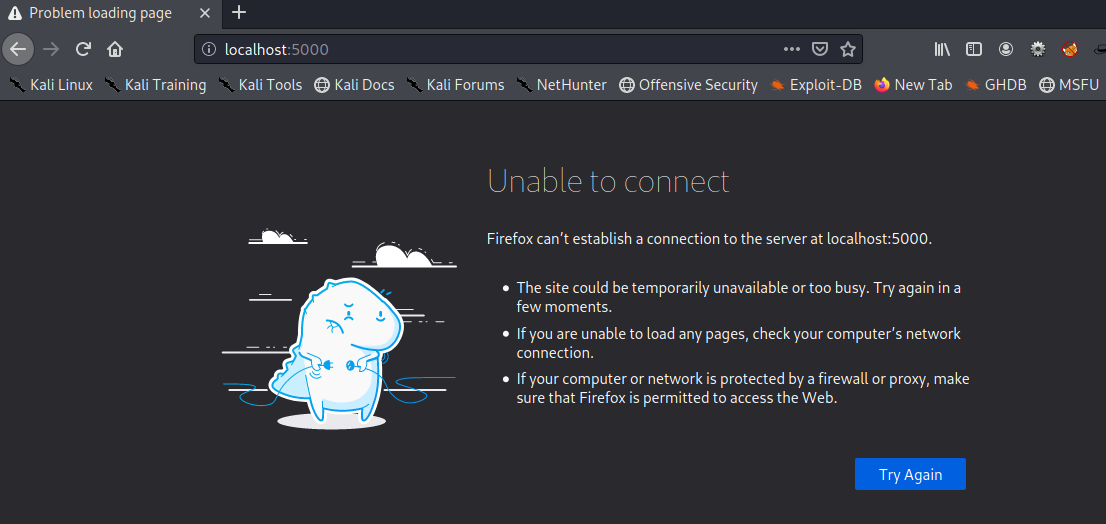
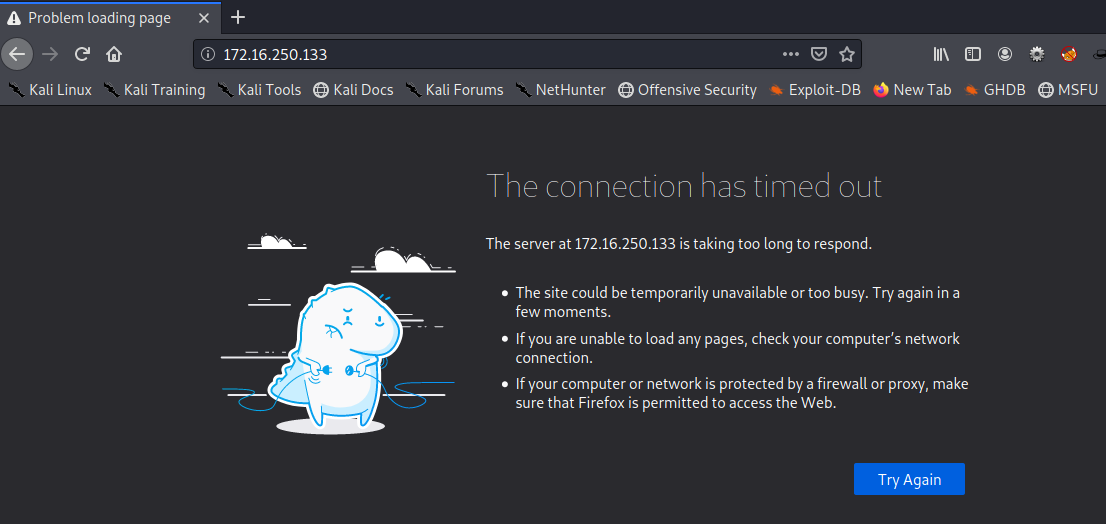
GitBook: [master] one page and 4 assets modified

diff --git a/README.md b/README.md
@@ -94,7 +94,7 @@ Pues.. para esto corremos el siguiente comando
 getuid
 ```
 
-![](.gitbook/assets/image%20%2840%29.png)
+![](.gitbook/assets/image%20%2841%29.png)
 
 Este comando permite consultar la cuenta que se esta ejecutando para el proceso del meterpreter.
 
@@ -119,7 +119,7 @@ Una vez ya ejecutado nuestro **netstat** podemos visualizar que para la linea 4 
 
 Aun asi estando ya dentro de nuestra maquina Ubuntu desde nuestro meterpreter validamos si el podemos ver la conexion en nuestro localhost sin haber realizado nuestro **Port Forwarding**
 
-![](.gitbook/assets/image%20%2841%29.png)
+![](.gitbook/assets/image%20%2842%29.png)
 
 Y en efecto... no podemos todavia desplegar la informaciòn desde nuestro localhost
 
@@ -266,7 +266,7 @@ El cual nos genera la sigueinte salida
 
 Una vez ya ejecutado nuestro binario de chisel asignando el trafico al puerto 8000 , podemos corroborar si mantenemos acceso a la metasploitable2
 
-![](.gitbook/assets/image%20%2839%29.png)
+![](.gitbook/assets/image%20%2840%29.png)
 
 Pues no... no tenemos acceso. En este punto, imaginamos que te preguntas... pero porque localhost? y ese puerto? por que no es el que señalo arriba el 8000? y si todas esas dudas la respondemos siguiendo este pequeño lab.
 
@@ -387,7 +387,13 @@ El cual detallamos a continuaciòn:
 
 ![](.gitbook/assets/image%20%2831%29.png)
 
-Seguido realizamos la configuracion en nuestro explorador
+Teniendo la conexiòn remota activa sobre nuestra maquina Ubuntu, decidimos realizar la prueba sobre nuestro explorador para saber si tenemos visibilidad sobre la Metasploitable2
+
+![](.gitbook/assets/image%20%2839%29.png)
+
+Y en efecto, no mantenemos visibilidad.
+
+Seguido a la prueba, realizamos la configuracionde conexiones en nuestro explorador
 
 * Seleccionamos la opcion Manual proxy configuracion
 * en SOCKS Host colocamos el ip de localhost \(127.0.0.1\)
